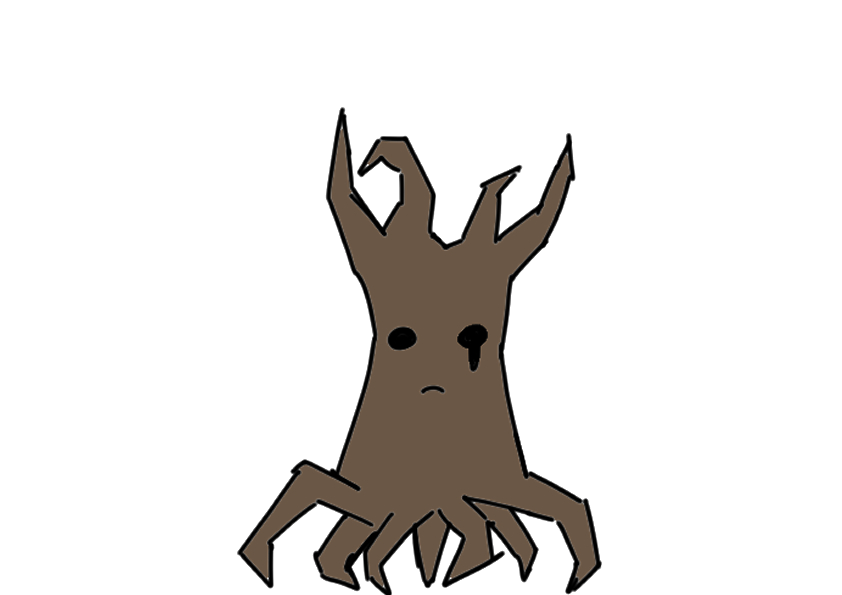
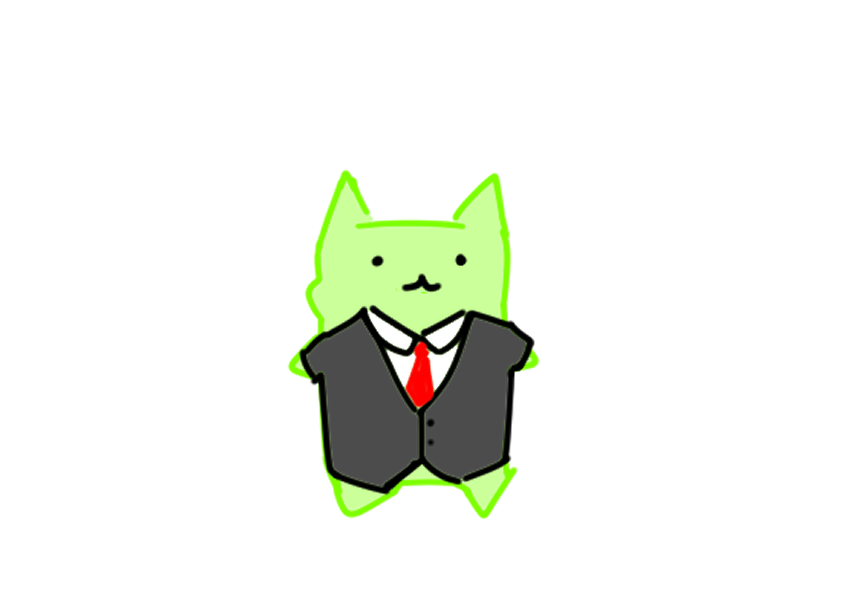
Replace slot 10 art with suit cat, transparent background
From Downloads\イラスト5.png; displaces the withered tree (still in git
history if it gets a new slot later). Cache bumped to v11.

Changed region(s): [[0.2779, 0.1815, 0.7102, 1.0]]

diff --git a/sw.js b/sw.js
@@ -1,4 +1,4 @@
-const CACHE_NAME = 'wakemon-cache-v10';
+const CACHE_NAME = 'wakemon-cache-v11';
 const APP_SHELL = [
   './',
   './index.html',
